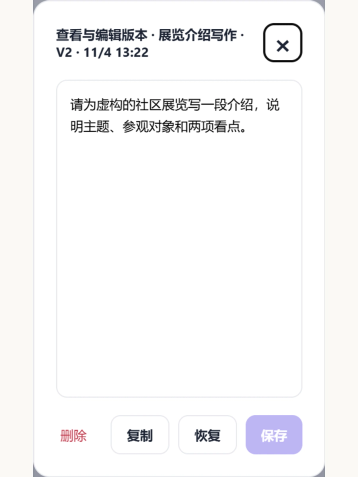
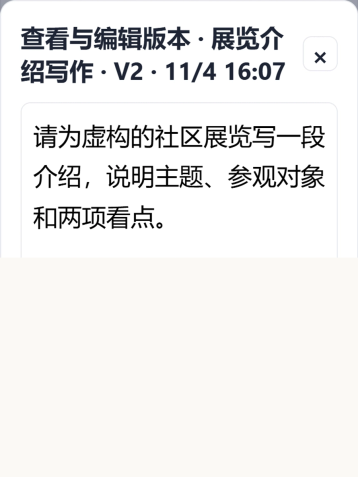
docs: improve mobile history readability with native font settings

diff --git a/docs/portfolio-assets/detail-v2/README.md b/docs/portfolio-assets/detail-v2/README.md
@@ -19,7 +19,7 @@
 | prompt-pocket-insert-desktop.webp | 1600×1200 | 受控桌面网页真实插入结果 |
 | prompt-pocket-insert-mobile.webp | 900×1200 | 输入结果区独立局部，原文与完整提示词 |
 | prompt-pocket-history-list-desktop.webp | 1600×1200 | 三个版本，V2预览按钮实际焦点 |
-| prompt-pocket-history-list-mobile.webp | 900×1200 | 三个版本自然窄幅列表 |
+| prompt-pocket-history-list-mobile.webp | 900×1600 | 三个版本自然窄幅列表 |
 | prompt-pocket-history-preview-desktop.webp | 1600×1200 | 同一提示词V2正文查看 |
 | prompt-pocket-history-preview-mobile.webp | 900×1200 | V2标识与完整短正文独立局部 |
 
@@ -46,7 +46,7 @@
 
 九张成品尺寸、格式与 SHA-256 校验通过，原始 PNG 校验通过。检查桌面图829/1184px宽、窄屏图288/358px宽；查看完整短正文、按钮、版本标识和裁切，插入局部正文完整，未拉伸。版本列表和正文预览分开交付。
 
-窄屏真实历史列表的原生版本字号约11px，288px展示时约11–12px，低于共用规则“约14px”的建议目标；未为提高字号篡改 UI。该项作为明确限制保留，建议页面允许点开原图，接入后复核；不能将本轮图片检查称为整页手机验收通过。主视觉辅助文字由后续功能局部解释。
+首轮两张历史手机图未达到关键字号目标，已由下述 r1 替换。r1 的288/358px校样中，三版本标识、V2真实按钮焦点和对应完整正文清晰；按真实最小字号及取景宽度估算，288px下列表关键字约15.9px，预览正文约19.6px（估算为排版字号映射，非精确墨迹高度）。整页接入及真机验收仍由总控执行。主视觉辅助文字由后续功能局部解释。
 
 ## 复现
 
@@ -60,3 +60,15 @@ node docs/portfolio-assets/detail-v2/verify.mjs
 已有依赖可通过 PORTFOLIO_MODULES 指定依赖目录，浏览器通过 BROWSER_PATH 指定；默认使用标准位置 Edge。不依赖作者项目绝对路径或外站资源。make 首先验证拍摄代码与基线一致；成功后关闭并删除本次临时浏览器配置。原始截图的时间由产品实际生成，重拍时间、版本 ID 会变化。
 
 最终素材提交 SHA 由回执给出，不循环写入自身 manifest。只在独立素材分支上传，造物集接入由总控后续执行。
+
+## 有限补修 r1
+
+原任务：detail-v2-20261104-prompt-pocket；补修：detail-v2-20261104-prompt-pocket-r1。保留3fad26caa1ae3359845724d376177b41caca8929历史，沿用同一素材分支；只替换两张历史手机成品及相应原图/校样，其余7张WebP逐字节核对与原提交相同。
+
+隔离Edge156.0.4314.58配置中，通过真实浏览器Preferences的webkit.webprefs.minimum_font_size与minimum_logical_font_size设为25px，浏览器标签缩放100%，DPR2。列表使用500×1000 CSS视口，使产品原有响应式布局容纳三个版本；取真实#historySection，原图904×822，滚动区clientHeight与scrollHeight均347，三版本及V2按钮焦点完整可见。预览使用400×1000 CSS视口，真实弹窗上方连续矩形取景368×265 CSS px，原图736×530，保留完整标题、V2与短正文，省略底部操作及其余空白。没有注入或修改产品CSS、DOM文字、选择态。
+
+两图仅按宽度等比导出900px，未contain回短画布或再按高度压小；列表900×1600，预览900×1200，内容下方为一层暖白留白。放大字号的收益保留在最终图里。列表版本、焦点和预览完整正文经288/358px校样查看，无需依赖点击看大图。原有产品无选中行，以真实V2预览按钮焦点关联；主视觉的独立扩展页回退仍准确标注。
+
+r1在新临时配置重建同一虚构样本的V1/V2/V3，文字与首批相同，时间为本次真实保存时刻，不伪装为首批同一浏览器存储实例。没有执行插入、恢复或备份的新验证；原record.json保留首批操作记录，revision-r1.json单独记录补修设置、取景及校验。
+
+仅复现补修，运行node docs/portfolio-assets/detail-v2/revise-r1.mjs，再运行node docs/portfolio-assets/detail-v2/verify.mjs。make.mjs保留首轮9图复现用途，会重拍全部9图，不用于本次有限补修。
